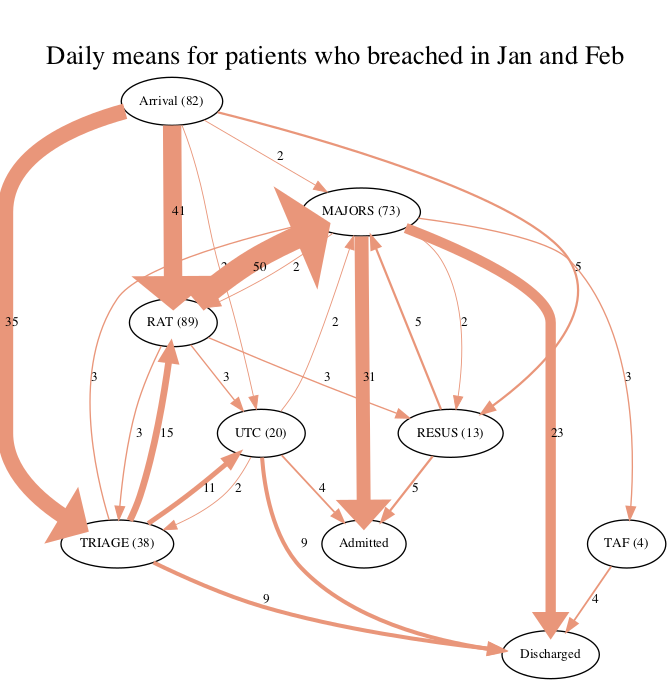
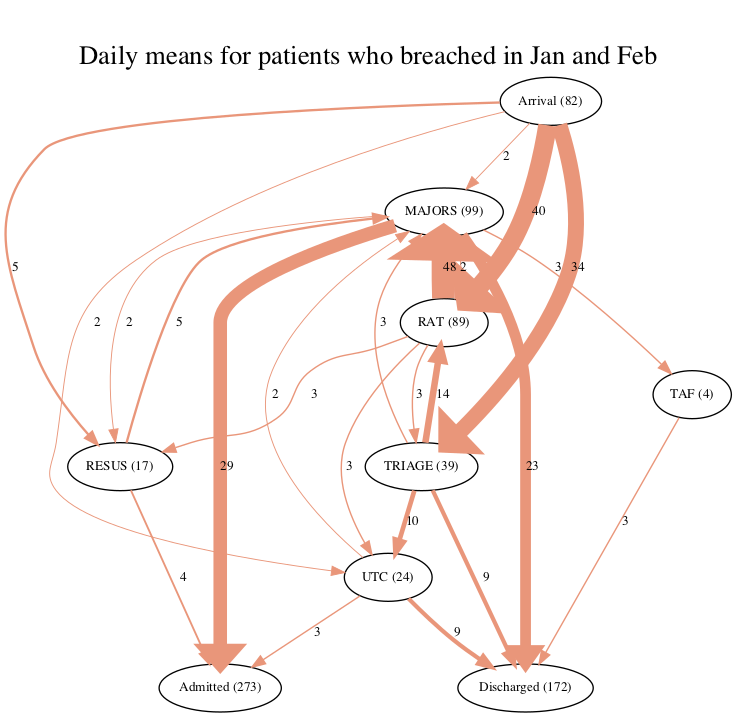
Final charts for work-on-flow-mapping-3

diff --git a/flow-mapping/code/create-viz-from-edge-list.py b/flow-mapping/code/create-viz-from-edge-list.py
@@ -8,10 +8,10 @@ import pygraphviz as pgv
 
 # read data
 
-filename = '/Users/zellaking/GitHubRepos/EDcrowding/flow-mapping/data-output/edgelist_stats_JanFeb_2020-07-21.csv'
+filename = '/Users/zellaking/GitHubRepos/EDcrowding/flow-mapping/data-output/edgelist_stats_JanFeb_2020-07-23.csv'
 edgelist_stats = pd.read_csv(filename, sep =',', dtype = {"weight_mean" : "float64"})
 
-filename = 'flow-mapping/data-output/node_stats_JanFeb_2020-07-22.csv'
+filename = 'flow-mapping/data-output/node_stats_JanFeb_2020-07-23.csv'
 node_stats = pd.read_csv(filename, sep =',')
 
 # cheat workaround to get mean to round
@@ -19,7 +19,7 @@ edgelist_stats.weight_mean = edgelist_stats.weight_mean.astype(int)
 
 # create node label
 node_label_num = ' ('+node_stats['num_pat_mean'].astype(int).copy().astype(str)+')'
-node_stats['node_label'] = node_stats['room4'].str.cat(node_label_num)
+node_stats['node_label'] = node_stats['room4_new'].str.cat(node_label_num)
 
 # initialise graph
 G = pgv.AGraph(name='Jan-Feb-all', directed=True,
@@ -31,12 +31,12 @@ G.node_attr['fontsize'] = '10'
 # add all nodes to graph
 
 for index, row in node_stats.iterrows():
-    G.add_node(row['room4'],
+    G.add_node(row['room4_new'],
                label = row['node_label']
                )
 
-# add all edges to graph
-for index, row in edgelist_stats.iterrows():
+# add all edges to graph - only where weight > 3
+for index, row in edgelist_stats[edgelist_stats['weight_mean']>3].iterrows():
     if row['from'] != 'Admitted' and row['weight_mean'] > 1:
         G.add_edge(row['from'], row['to'],
                    weight=row['weight_mean'],
@@ -51,14 +51,14 @@ for index, row in edgelist_stats.iterrows():
                    penwidth=100 * row['weight_mean'] / sum(edgelist_stats['weight_mean'])
                    )
 
-G.draw("flow-mapping/media/Jan-Feb-all.png", prog='dot')
+G.draw("flow-mapping/media/Jan-Feb-all-wtgt3.png", prog='dot')
 
 # Create graph for breach patients
 # ================================
 
 # read data
 
-filename = '/Users/zellaking/GitHubRepos/EDcrowding/flow-mapping/data-output/edgelist_stats_JanFeb_breach_2020-07-21.csv'
+filename = '/Users/zellaking/GitHubRepos/EDcrowding/flow-mapping/data-output/edgelist_stats_JanFeb_breach_2020-07-23.csv'
 edgelist_stats_JanFeb_breach = pd.read_csv(filename, sep =',', dtype = {"weight_mean" : "float64"})
 
 # cheat workaround to get mean to round
@@ -66,7 +66,7 @@ edgelist_stats_JanFeb_breach.weight_mean = edgelist_stats_JanFeb_breach.weight_m
 
 # create node label
 node_label_num_breach = ' ('+node_stats['num_pat_mean_breach'].astype(int).copy().astype(str)+')'
-node_stats['node_label_breach'] = node_stats['room4'].str.cat(node_label_num_breach)
+node_stats['node_label_breach'] = node_stats['room4_new'].str.cat(node_label_num_breach)
 
 # initialise graph
 G = pgv.AGraph(name='Jan-Feb-breach', directed=True,
@@ -78,12 +78,12 @@ G.node_attr['fontsize'] = '10'
 # add all nodes to graph
 
 for index, row in node_stats.iterrows():
-    G.add_node(row['room4'],
+    G.add_node(row['room4_new'],
                label = row['node_label_breach']
                )
 
-# add all edges to graph
-for index, row in edgelist_stats_JanFeb_breach.iterrows():
+# add all edges to graph - only where weight > 2
+for index, row in edgelist_stats_JanFeb_breach[edgelist_stats_JanFeb_breach['weight_mean']>2].iterrows():
     if row['from'] != 'Admitted' and row['weight_mean'] > 1:
         G.add_edge(row['from'], row['to'],
                    weight=row['weight_mean'],
@@ -98,7 +98,7 @@ for index, row in edgelist_stats_JanFeb_breach.iterrows():
                    penwidth=100 * row['weight_mean'] / sum(edgelist_stats_JanFeb_breach['weight_mean'])
                    )
 
-G.draw("flow-mapping/media/Jan-Feb-breach.png", prog='dot')
+G.draw("flow-mapping/media/Jan-Feb-breach-wtgt2.png", prog='dot')
 
 
 
